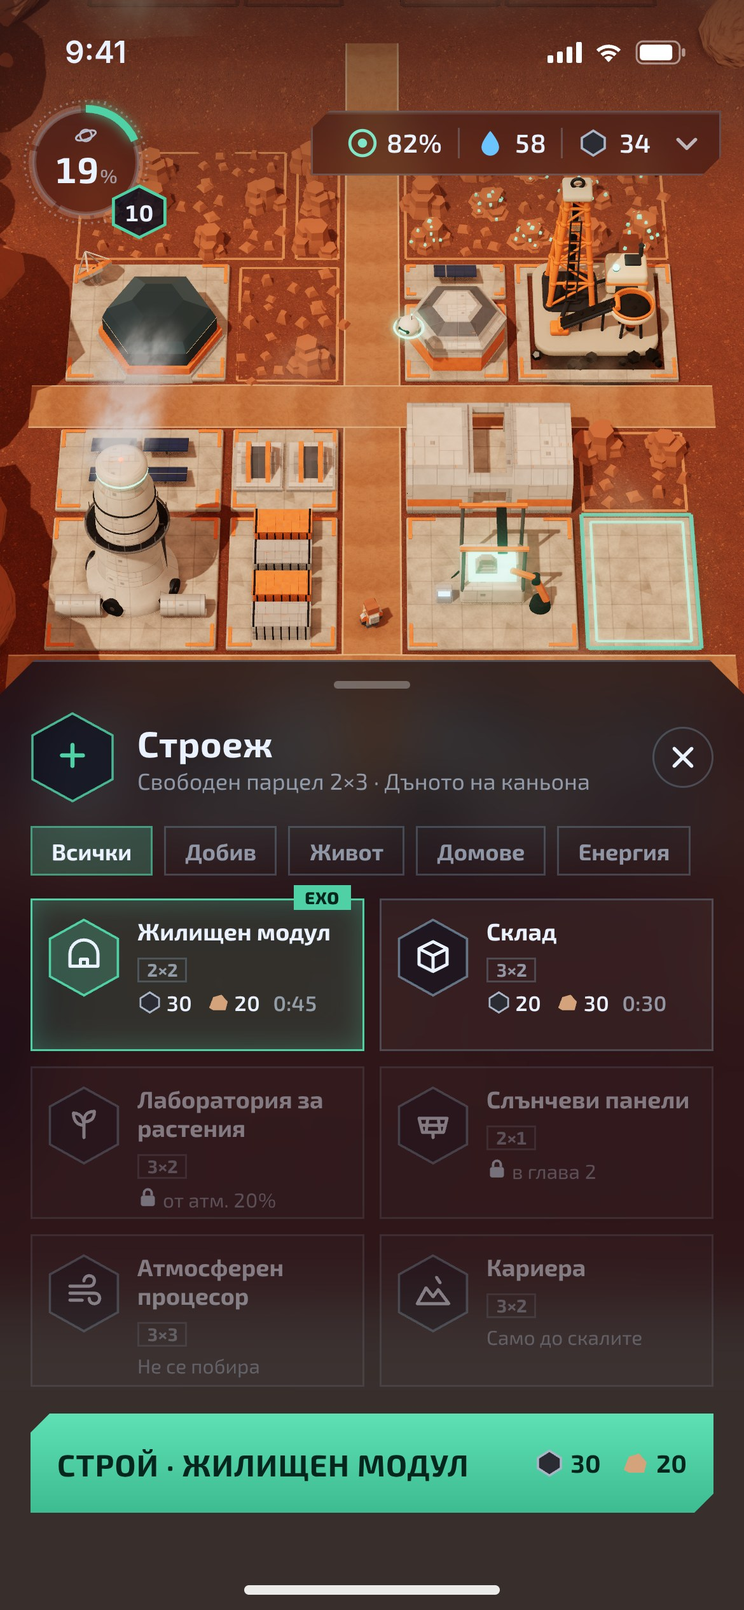
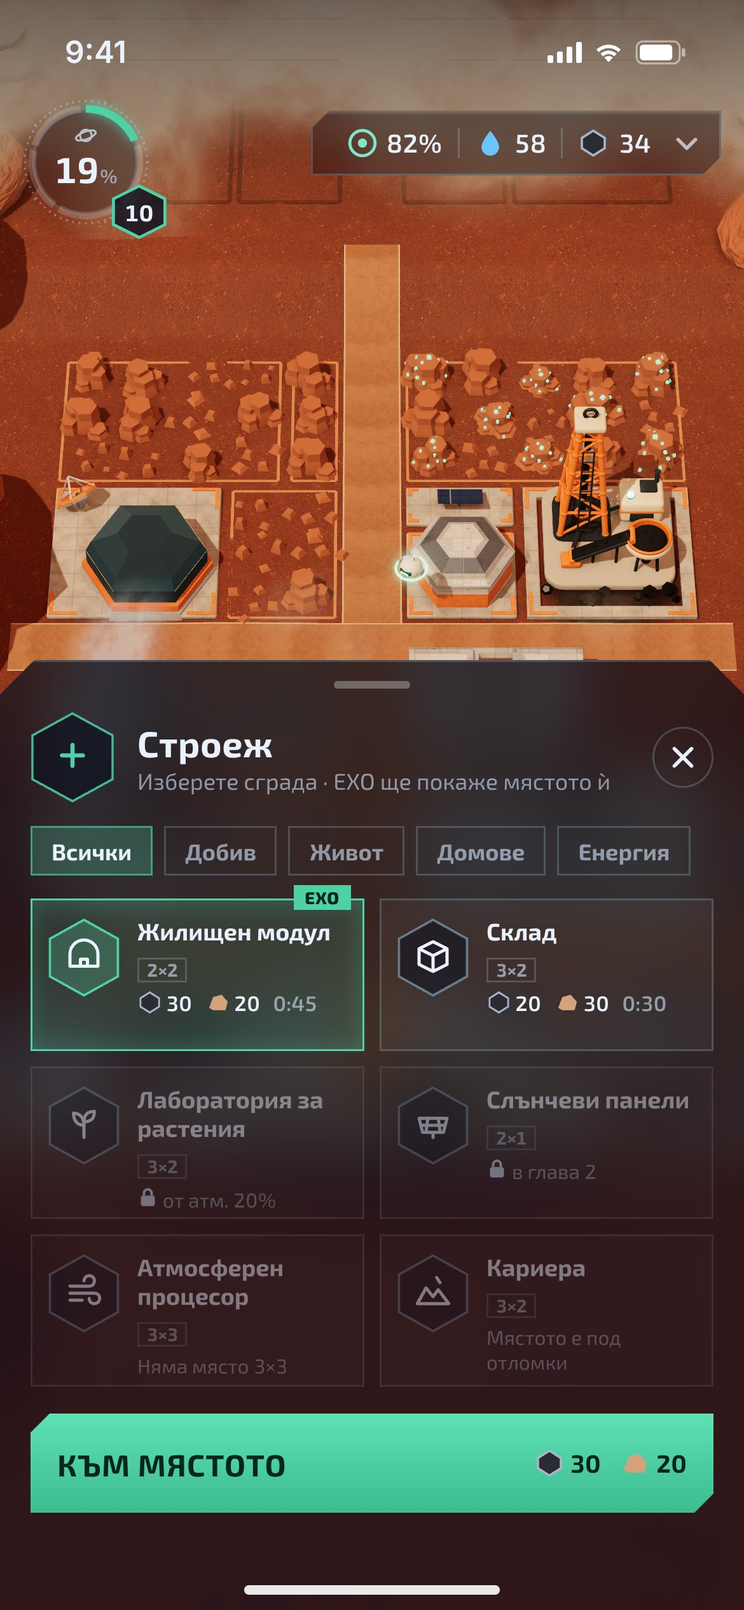
Строеж с бутона „Строй“: определено място и ЕХО води дотам
Жоро уточни: фабрикатор няма; бутонът „Строй“ отваря менюто, всяка
сграда има определено място на картата и ЕХО води до него.

- mockup: състояния #early-build (менюто) и #early-place (светещото
  място с прозрачната сграда и ЕХО), кадри 06 и 07; фабрикаторът е
  заменен с рисърч станция и кадри 01–03 са направени наново.
- docs/game-flow-concept.md следва обновения документ в Claude.
- notes.md: решението и дневникът са уточнени.

Claude-Session: https://claude.ai/code/session_01HQgMkiyb5bvwSnLxV2QWWo

diff --git a/mockup/index.html b/mockup/index.html
@@ -86,6 +86,16 @@
   .card .meta { font-size: 11px; color: var(--ink); margin-top: 4px; display: flex; gap: 7px; align-items: center; font-weight: 600; }
   .card .meta span { display: flex; align-items: center; gap: 2px; }
   .card .note { font-size: 10.5px; color: var(--muted); margin-top: 4px; line-height: 1.25; }
+  .hint { position: absolute; top: 134px; left: 50%; transform: translateX(-50%); padding: 8px 14px; font-size: 13px; font-weight: 600; display: flex; gap: 8px; align-items: center; white-space: nowrap; }
+  .hint b { color: var(--accent); }
+  .bubble { position: absolute; transform: translate(-50%, calc(-100% - 12px)); padding: 8px 11px; font-size: 12.5px; font-weight: 600; line-height: 1.3; width: 176px; background: var(--glass-strong); border: 1px solid rgba(79, 209, 165, .7); box-shadow: 0 0 16px rgba(79, 209, 165, .35); }
+  .bubble:after { content: ''; position: absolute; left: var(--tx, 50%); bottom: -7px; width: 12px; height: 12px; background: inherit; border-right: 1px solid rgba(79, 209, 165, .7); border-bottom: 1px solid rgba(79, 209, 165, .7); transform: translateX(-50%) rotate(45deg); }
+  .bubble .who { font-size: 10px; letter-spacing: .6px; color: var(--accent); font-weight: 800; margin-bottom: 2px; }
+  .placebar { position: absolute; left: 0; right: 0; bottom: 0; padding: 14px 16px 30px; background: var(--glass-strong); backdrop-filter: blur(16px) saturate(150%); border-top: 1px solid var(--line); clip-path: polygon(0 18px, 18px 0, calc(100% - 18px) 0, 100% 18px, 100% 100%, 0 100%); }
+  .placebar .row { display: flex; align-items: center; gap: 12px; }
+  .placebar h4 { font-size: 16px; font-weight: 700; } .placebar p { font-size: 12px; color: var(--muted); margin-top: 2px; }
+  .placebar .btns { display: flex; gap: 8px; margin-top: 14px; }
+  .cancel { width: 104px; height: 52px; border: 1px solid var(--line); display: grid; place-items: center; font-weight: 700; font-size: 14px; color: var(--muted); clip-path: polygon(10px 0, 100% 0, 100% calc(100% - 10px), calc(100% - 10px) 100%, 0 100%, 0 10px); }
   .card .tag { position: absolute; top: -8px; right: 6px; font-size: 9px; font-weight: 800; letter-spacing: .3px; background: #4fd1a5; color: #04261c; padding: 1px 6px; }
 </style>
 </head>
@@ -162,6 +172,13 @@ function hud() {
     }
     const dockB = (ico, cls = '', extra = '') => `<div class="b ${cls}">${ico}${extra}</div>`;
     h += `<div class="dock glass">${dockB(I.people, L ? '' : 'off', L ? '' : `<span class="lock">${I.lock}</span>`)}${dockB(`<svg width="44" height="44" viewBox="0 0 44 44" style="position:absolute"><circle cx="22" cy="22" r="17" fill="none" stroke="rgba(255,255,255,.12)" stroke-width="2"/><circle cx="22" cy="22" r="17" fill="none" stroke="#4fd1a5" stroke-width="2" stroke-dasharray="${0.6 * 106.8} 106.8" transform="rotate(-90 22 22)"/></svg>` + I.research)}<div class="build"><svg class="bg" width="64" height="70" viewBox="0 0 64 70"><defs><linearGradient id="bg1" x1="0" y1="0" x2="0" y2="1"><stop offset="0" stop-color="#6be6bd"/><stop offset="1" stop-color="#36b58b"/></linearGradient></defs><path d="${hexPath(64, 70, 1.5)}" fill="url(#bg1)" stroke="#c6f7e6" stroke-width="1.5"/></svg><div style="position:relative">${I.build.replace('width="22" height="22"', 'width="28" height="28"')}</div></div>${dockB(I.map, L ? '' : 'off', L ? '' : `<span class="lock">${I.lock}</span>`)}${dockB(I.echo, '', '<span class="dot">3</span>')}</div>`;
+  } else if (st.place) {
+    // a building chosen: its spot glows, ЕХО points at it, one tap confirms
+    h += `<div class="hint glass cham">${S('<path d="M12 21s-6-5.6-6-10a6 6 0 0 1 12 0c0 4.4-6 10-6 10z"/><circle cx="12" cy="11" r="2.2"/>', '#4fd1a5', 2)}Натиснете <b>светещото място</b></div>`;
+    const bx = Math.min(Math.max(a.place.x, 104), 390 - 104);
+    h += `<div class="bubble" style="left:${bx.toFixed(1)}px;top:${a.place.y.toFixed(1)}px;--tx:${(a.place.x - bx + 88).toFixed(1)}px"><div class="who">ЕХО</div>Тук е мястото за модула. Натиснете го.</div>`;
+    h += `<div class="placebar"><div class="row">${hexPin(S('<path d="M4 18V11a8 8 0 0 1 16 0v7z"/><path d="M10 18v-4h4v4"/><path d="M4 18h16"/>'), { w: 44, h: 48, fill: 'rgba(79,209,165,.25)', stroke: '#4fd1a5' })}<div><h4>Жилищен модул</h4><p>2×2 · 5 места · строи се за 0:45</p></div></div>
+      <div class="btns"><div class="cancel">Отказ</div><div class="go"><b>СТРОЙ ТУК</b><div class="cost"><span>${R.carbon}30</span><span>${R.stone}20</span></div></div></div></div>`;
   } else if (st.build) {
     // tapped: an empty 2x3 plot, the build menu lists what fits and what comes later
     const small = s => s.replace('width="16" height="16"', 'width="13" height="13"');
@@ -177,17 +194,17 @@ function hud() {
     const cost = (c, s, t) => `<div class="meta"><span>${small(R.carbon)}${c}</span><span>${small(R.stone)}${s}</span><span style="color:var(--muted)">${t}</span></div>`;
     const note = t => `<div class="note">${t}</div>`;
     h += `<div class="sheet tall"><div class="grab"></div>
-      <div class="sh-head">${hexPin(S('<path d="M12 6v12M6 12h12"/>', '#4fd1a5', 2.4), { w: 44, h: 48, stroke: 'rgba(79,209,165,.85)' })}<div><h3>Строеж</h3><p>Свободен парцел 2×3 · Дъното на каньона</p></div><div class="x">${I.close}</div></div>
+      <div class="sh-head">${hexPin(S('<path d="M12 6v12M6 12h12"/>', '#4fd1a5', 2.4), { w: 44, h: 48, stroke: 'rgba(79,209,165,.85)' })}<div><h3>Строеж</h3><p>Изберете сграда · ЕХО ще покаже мястото ѝ</p></div><div class="x">${I.close}</div></div>
       <div class="tabs"><span class="on">Всички</span><span>Добив</span><span>Живот</span><span>Домове</span><span>Енергия</span></div>
       <div class="cards">
         ${card(B.hab, 'Жилищен модул', '2×2', cost(30, 20, '0:45'), { sel: true, tag: 'ЕХО' })}
         ${card(B.store, 'Склад', '3×2', cost(20, 30, '0:30'))}
         ${card(B.plant, 'Лаборатория за растения', '3×2', note(`${I.lock} от атм. 20%`), { dim: true })}
         ${card(B.solar, 'Слънчеви панели', '2×1', note(`${I.lock} в глава 2`), { dim: true })}
-        ${card(B.air, 'Атмосферен процесор', '3×3', note('Не се побира'), { dim: true })}
-        ${card(B.quarry, 'Кариера', '3×2', note('Само до скалите'), { dim: true })}
+        ${card(B.air, 'Атмосферен процесор', '3×3', note('Няма място 3×3'), { dim: true })}
+        ${card(B.quarry, 'Кариера', '3×2', note('Мястото е под отломки'), { dim: true })}
       </div>
-      <div class="up"><div class="go"><b>СТРОЙ · ЖИЛИЩЕН МОДУЛ</b><div class="cost"><span>${R.carbon}30</span><span>${R.stone}20</span></div></div></div>
+      <div class="up"><div class="go"><b>КЪМ МЯСТОТО</b><div class="cost"><span>${R.carbon}30</span><span>${R.stone}20</span></div></div></div>
     </div>`;
   } else {
     // tapped: the carbon drill

diff --git a/mockup/src/main.js b/mockup/src/main.js
@@ -13,7 +13,8 @@ import { RGBELoader } from 'three/addons/loaders/RGBELoader.js';
 const STATE = (location.hash || '#early').slice(1);
 const LATE = STATE.startsWith('late');
 const PANEL = STATE.endsWith('panel');
-const BUILD = STATE.endsWith('build'); // an empty plot tapped: the build menu is open
+const BUILD = STATE.endsWith('build'); // the Build button pressed: the build menu is open
+const PLACE = STATE.endsWith('place'); // a building chosen: its spot glows on the map and ЕХО points at it
 const ZOOM = STATE.endsWith('zoom');
 const DPR = Number(new URLSearchParams(location.search).get('dpr') || 1);
 const W = 390, H = 844;
@@ -211,7 +212,7 @@ function zone1(late) {
   solarArray(L.solarA);
   pad(L.proc); at(K.processor(), L.proc, 1.0);
   cargo(L.cargo);
-  pad(L.fab); at(K.fabricator(), L.fab, 1.0);
+  pad(L.fab); at(K.research(true), L.fab, 0.95, 0, 0.4, 0.3); // no fabricator (decided 02.11.2026): this plot holds the research station
   solarArray(L.solarB); batteryBank(L.batt);
   pad(L.store); at(kit('hangar_largeA', 2.8), L.store, 1, Math.PI / 2); put(kit('barrels', 3), L.store.x1 - 1.2, L.store.zb + 1.0, 0.4);
   pad(L.lab); at(kit('hangar_roundGlass', 2.2), L.lab, 1, 0, 0.7, 1.2); at(kit('satelliteDish_detailed', 3.2), L.lab, 1, 0.7, -2.9, -2.9);
@@ -237,13 +238,24 @@ function buildEarly() {
   put(kit('astronautA', 2.3), 0, 13.2, 0.4);
   for (let i = 0; i < 8; i++) { const x = L.water.cx + 0.6 + T.rng() * 2, z = L.water.cz + 0.6 + T.rng() * 1.8; K.sph(scene, 0.22 + T.rng() * 0.35, K.M.ice, x, Wd.gy(x, z) + 0.05, z, { seg: 6, seg2: 4, s: [1, 0.5, 1] }); }
   for (let i = 0; i < 14; i++) { const x = L.drill.cx - 3.4 + T.rng() * 6.8, z = L.drill.cz + 2.4 + T.rng() * 1.4, r = 0.18 + T.rng() * 0.28; const m = new THREE.Mesh(new THREE.DodecahedronGeometry(r, 0), K.M.carbon); m.position.set(x, Wd.gy(x, z) + r * 0.5, z); m.rotation.set(T.rng() * 3, T.rng() * 3, 0); m.castShadow = true; scene.add(m); }
-  // ЕХО hovers by the new hab and lights it up
-  const ex = L.hab.cx - 2.6, ez = L.hab.cz + 3.4, ey = Wd.gy(ex, ez) + 5.0;
+  // ЕХО hovers by the new hab and lights it up; in placement it lights the free spot for the chosen building
+  const tgt = PLACE ? L.free : L.hab;
+  const ex = tgt.cx - 2.6, ez = tgt.cz + 3.4, ey = Wd.gy(ex, ez) + 5.0;
   put(K.echoBot(), ex, ez, -0.6, 1.1, ey);
   const beam = new THREE.Mesh(new THREE.ConeGeometry(1.5, 4.4, 32, 1, true), new THREE.MeshBasicMaterial({ color: 0x4fd1a5, transparent: true, opacity: 0.12, blending: THREE.AdditiveBlending, depthWrite: false, side: THREE.DoubleSide }));
-  beam.position.set(L.hab.cx - 0.6, Wd.gy(0, L.hab.cz) + 2.6, L.hab.cz + 1.2); beam.lookAt(ex, ey, ez); beam.rotateX(Math.PI / 2); scene.add(beam);
+  beam.position.set(tgt.cx - 0.6, Wd.gy(0, tgt.cz) + 2.6, tgt.cz + 1.2); beam.lookAt(ex, ey, ez); beam.rotateX(Math.PI / 2); scene.add(beam);
   halo(ex, ey, ez, 2.2, 0x6ff2c4, 0.45);
-  if (PANEL) { selectFrame(L.drill); beam.visible = false; } else if (BUILD) { selectFrame(L.free); beam.visible = false; } else selectFrame(L.hab);
+  if (PANEL) { selectFrame(L.drill); beam.visible = false; }
+  else if (BUILD) beam.visible = false;
+  else if (PLACE) {
+    selectFrame(L.free);
+    // the chosen building stands on its spot as a see-through ghost until "Строй тук"
+    const ghostMat = new THREE.MeshStandardMaterial({ color: 0x4fd1a5, emissive: 0x4fd1a5, emissiveIntensity: 0.9, transparent: true, opacity: 0.6, depthWrite: false });
+    const ghost = kit('hangar_roundB', 1.7); ghost.traverse(o => { if (o.isMesh) { o.material = ghostMat; o.castShadow = false; } });
+    at(ghost, L.free, 1, Math.PI);
+    halo(L.free.cx, Wd.gy(0, L.free.cz) + 1.2, L.free.cz, 9, 0x6ff2c4, 0.35);
+  } else selectFrame(L.hab);
+  P('place', L.free.cx, Wd.gy(0, L.free.cz) + 6.5, L.free.cz);
   // zone 2 under dust: the outlines of its plots, in their different sizes
   for (const r of LATE_Z2) pad(r, 'locked');
   for (let i = 0; i < 16; i++) dust(-24 + i * 3.2 + T.rng() * 2, Wd.gy(0, -32) + 4 + T.rng() * 4, -33 - T.rng() * 5, 14 + T.rng() * 8, 0xe6b48e, 0.7);
@@ -254,7 +266,7 @@ function buildEarly() {
   P('drill', L.drill.cx + 2.8, Wd.gy(0, L.drill.cz) + 2.4, L.drill.cz + 2.8); P('water', L.water.cx + 0.4, Wd.gy(0, L.water.cz) + 1.4, L.water.cz + 1.6);
   P('hab', L.hab.cx, Wd.gy(0, L.hab.cz) + 3.6, L.hab.cz); P('empty', L.free.cx, Wd.gy(0, L.free.cz) + 0.4, L.free.cz); P('rubble', L.rub5.cx, Wd.gy(0, L.rub5.cz) + 1.0, L.rub5.cz);
   P('zone', 0, Wd.gy(0, -24) + 0.5, -24.5); P('echo', ex, ey + 1, ez);
-  if (ZOOM) { camera.position.set(-1, 60, 62); camera.lookAt(-1, 0, 9); } else if (BUILD) { camera.position.set(0, 118, 106); camera.lookAt(0, 0, 24); } else { camera.position.set(0, 118, 90); camera.lookAt(0, 0, 8); }
+  if (ZOOM) { camera.position.set(-1, 60, 62); camera.lookAt(-1, 0, 9); } else { camera.position.set(0, 118, 90); camera.lookAt(0, 0, 8); }
   frameSun(0, 2, 70, 90);
 }
 
@@ -346,5 +358,5 @@ composer.render();
 const out = {};
 for (const [k, v] of Object.entries(anchors)) { const p = v.clone().project(camera); out[k] = { x: (p.x + 1) / 2 * W, y: (1 - p.y) / 2 * H }; }
 window.__anchors = out;
-window.__state = { late: LATE, panel: PANEL || BUILD, build: BUILD };
+window.__state = { late: LATE, panel: PANEL || BUILD || PLACE, build: BUILD, place: PLACE };
 window.dispatchEvent(new Event('scene-ready'));

diff --git a/docs/game-flow-concept.md b/docs/game-flow-concept.md
@@ -1,47 +1,47 @@
-<!-- Синхронизирано с документа „Zerks-X6: ход на играта по концепцията“ (https://claude.ai/artifact/JjShfraRTRq3CH4FX62HVv) при rev 12. Двете схеми в документа са нарисувани; тук са описани с думи. -->
+<!-- Синхронизирано с документа „Zerks-X6: ход на играта по концепцията“ (https://claude.ai/artifact/JjShfraRTRq3CH4FX62HVv) при rev 21. Двете схеми в документа са нарисувани; тук са описани с думи. -->
 
 # Zerks-X6: ход на играта по концепцията
 
 02.11.2026 · Жоро
 
-Целият ход на Zerks-X6 по концепцията, стъпка по стъпка: какво става и какво натиска играчът. Новото от 02.11.2026: фабрикатор няма; строиш, като натиснеш парцел на картата и избереш сграда от менюто за строеж.
+Целият ход на Zerks-X6 по концепцията, стъпка по стъпка: какво става и какво натиска играчът. Новото от 02.11.2026: фабрикатор няма; натискаш бутона „Строй“, избираш сграда, а ЕХО те води до определеното ѝ място на картата.
 
 ## Какво се промени
 
-Фабрикатор няма (решение на Жоро, 02.11.2026). Строиш направо на картата: натискаш парцел, отваря се менюто за строеж с наличните сгради за този парцел, избираш една и строежът тръгва. Това заменя решението от 30.10.2026 „фабрикаторът строи всичко“.
+Фабрикатор няма (решение на Жоро, 02.11.2026). Строи се с бутона „Строй“ долу: избираш сграда от менюто, картата осветява определеното ѝ място, ЕХО лети до него и го посочва, а ти го натискаш. Това заменя решението от 30.10.2026 „фабрикаторът строи всичко“.
 
 | Какво правеше фабрикаторът | Какво го заменя | Статус |
 | --- | --- | --- |
-| Строеше всяка сграда | Тап върху парцел и менюто за строеж | Решено |
+| Строеше всяка сграда | Бутонът „Строй“, менюто и определеното място на картата; ЕХО води до него | Решено |
 | Излизаше от един от контейнерите при кацането | Контейнерите носят само запаси: храна, вода, материали и стартовата база с кислород | Решено |
-| Пускаше строителния дрон | Строителният дрон излита от Ковчега и лети до парцела | Предложение |
+| Пускаше строителния дрон | Строителният дрон излита от Ковчега и лети до мястото | Предложение |
 | Подобренията му съкращаваха строежа | Подобрение на Ковчега и проучване в клон Колония | Предложение |
 | На високо ниво пускаше 2-ри и 3-ти дрон | Проучване „Втори строителен дрон“, което вече е в концепцията | Предложение |
 | Строителят даваше бонус в него | Строителят дава бонус в Ковчега: по-бърз строеж навсякъде | Предложение |
 
 Всичко друго от концепцията остава: камера отгоре, всичко с тап, ЕХО води, Командирът не се управлява, сградите са в парцели по мрежа с различни размери.
 
-## Строеж с тап върху парцел
+## Строеж с бутона „Строй“
 
-Играчът натиска парцела на картата, а менюто за строеж показва само сградите, които могат да станат там. Така не трябва да мисли къде да сложи сградата: мястото идва първо.
+Играчът натиска „Строй“ долу в средата и избира сграда; за нея има определено място на картата. Камерата лети до него, мястото свети с прозрачна сграда върху му, а ЕХО долита и го посочва. Играчът не търси къде да строи.
 
-Схема в документа: Тап върху парцел (свободен, залеж или отломки) → Менюто за строеж (само каквото се побира тук) → Избираш сграда (цена, размер и време) → Стигат ли ресурсите? Не: ЕХО казва какво да подобриш и се връщаш към избора. Да: „Строй“, дронът излита от Ковчега → Сградата се вдига (от секунди до минути) → Готова: тап отваря панела ѝ и „Подобри“.
+Схема в документа: Бутон „Строй“ (долу в средата на екрана) → Менюто за строеж (сгради с цена, размер и време) → Избираш сграда (ЕХО препоръчва една от тях) → Стигат ли ресурсите? Не: ЕХО казва какво да подобриш и се връщаш към избора. Да: ЕХО води дотам (мястото свети, камерата лети там) → Тап на мястото („Строй тук“, дронът излита от Ковчега) → Сградата се вдига (от секунди до минути, после „Подобри“).
 
-| Натиснат парцел | Какво показва менюто |
+| Какво избра | Какво показва картата |
 | --- | --- |
-| Свободен | Сградите, които се побират в него, по раздели. Препоръката на ЕХО е първа; заключените и тези, които не се побират, са сиви с причината |
-| Залеж (карбон, лед, руда, кристали) | Само сградата за този залеж, например Карбонова сонда |
-| С отломки и скали | „Разчисти“; след това парцелът е свободен |
-| В заключена зона | Условията за зоната и „Отключи“ |
-| С готова сграда | Не менюто за строеж, а панела на сградата с „Подобри“ |
+| Сграда за свободно място (дом, склад, рисърч) | Определеното място свети с прозрачната сграда; ЕХО казва „Тук е мястото“ |
+| Сграда за залеж (сонда, помпа, мина) | Камерата лети до залежа и той свети |
+| Сграда, чието място е под отломки | ЕХО показва отломките: „Първо разчистете“ |
+| Сграда, за която няма свободно място | В менюто тя е сива с причината, например „Няма място 3×3“; ЕХО казва коя зона да се отключи |
+| Заключена сграда | Не се избира; катинарчето казва кога се отключва |
 
-Така изглежда менюто на телефона, след тап върху свободния парцел 2×3 на ниво 10 (кадър от макета; цените и времената са примерни): `mockup/screens/06-stroezh-menu.jpg`.
+Така изглежда на телефона, на ниво 10 (кадри от макета; цените и времената са примерни). Първо менюто след „Строй“, после мястото за избрания Жилищен модул: `mockup/screens/06-stroezh-menu.jpg` и `mockup/screens/07-izbor-na-miasto.jpg`.
 
 ## Стартовите сгради в менюто
 
 В глава 1 менюто за строеж предлага осем сгради; всяка се появява чак, когато ЕХО я доведе. Размерите са от макета, в клетки по 3 м, а минутите са от първите 10 минути; и двете са предложение.
 
-| Сграда | Какво прави | На какъв парцел | Размер | Появява се |
+| Сграда | Какво прави | Къде е мястото | Размер | Появява се |
 | --- | --- | --- | --- | --- |
 | Карбонова сонда | Карбон от залежа | Залеж карбон | 3×3 | 1:30, първата сграда |
 | Геолокатор | Показва атмосферата и залежите; с подобрения сканира следващата зона | Свободен | 2×2 | 3:00, струва 20 карбон |
@@ -56,20 +56,20 @@
 
 ## Първите 10 минути с ЕХО
 
-Играчът построява шест неща и вижда целия кръг веднъж, без да чете дълъг текст. Всеки строеж започва с тап върху парцел, който ЕХО е осветил. Стъпките са от концепцията, пренаписани без фабрикатор.
+Играчът построява шест неща и вижда целия кръг веднъж, без да чете дълъг текст. Всеки строеж започва с бутона „Строй“, а ЕХО води до мястото. Стъпките са от концепцията, пренаписани без фабрикатор.
 
 | Време | Какво става | Какво натискаш | Какво научаваш |
 | --- | --- | --- | --- |
 | 0:00 | Пролог в няколко кадъра: Земята се разпада, корабите излитат, скокът | Нищо или „Прескочи“ | Защо сме тук |
 | 0:30 | Камерата е отгоре. Ковчегът каца в облак прах, Командирът слиза по рампата, контейнерите се спускат от другата страна, а от един излита ЕХО: „Добро утро, Командире. Поспахте си добре.“ | Нищо; сцената е кратка | Кой е Командирът и кой е ЕХО |
-| 1:00 | Залежът карбон до Ковчега свети. ЕХО: „За геолокатора трябват 20 карбон. Натиснете залежа.“ | Тап върху парцела. Отваря се менюто с една сграда: Карбонова сонда | Тап върху парцел е строеж |
-| 1:30 | Строителният дрон излита от Ковчега и вдига сондата за 5 секунди | „Строй“ в менюто | Сградата стои върху своя залеж |
+| 1:00 | Бутонът „Строй“ свети. ЕХО: „За геолокатора трябват 20 карбон. Да сложим сонда.“ | „Строй“ → Карбонова сонда. Камерата лети до залежа, той свети и ЕХО го посочва | Строиш с бутона; ЕХО показва мястото |
+| 1:30 | Строителният дрон излита от Ковчега и вдига сондата за 5 секунди | Тап върху светещия залеж → „Строй тук“ | Сградата стои върху своя залеж |
 | 2:00 | Сондата се върти и над нея се пълни балонче с карбон | Тап върху балончето няколко пъти, след това първото подобрение | Прибиране и подобрение |
-| 3:00 | Карбонът стига 20; ЕХО осветява свободния парцел до Ковчега | Тап върху парцела → Геолокатор → Строй. Сканирането минава като вълна и горе се появява Атм. 12% | Главната цел; колонията става ниво 2 |
-| 4:00 | Геолокаторът показва лед в сянката на скалите. ЕХО: „Водата е живот.“ | Тап върху леда → Помпа за вода | Всеки залеж предлага само своята сграда |
-| 5:00 | ЕХО: „Запасът кислород на Ковчега е за първите събудени. За всички трябва планетата да диша.“ | Тап върху свободен парцел → Атмосферен процесор | Верига: една сграда харчи това, което друга произвежда |
+| 3:00 | Карбонът стига 20; „Строй“ свети отново | „Строй“ → Геолокатор → тап върху мястото до Ковчега. Сканирането минава като вълна и горе се появява Атм. 12% | Главната цел; колонията става ниво 2 |
+| 4:00 | Геолокаторът показва лед в сянката на скалите. ЕХО: „Водата е живот.“ | „Строй“ → Помпа за вода; ЕХО води до леда | Всяка сграда има свое място |
+| 5:00 | ЕХО: „Запасът кислород на Ковчега е за първите събудени. За всички трябва планетата да диша.“ | „Строй“ → Атмосферен процесор → тап върху мястото | Верига: една сграда харчи това, което друга произвежда |
 | 6:00 | От небето пада капсула с парашут от запасите на Ковчега | Тап върху капсулата: камък и карбон | Капсулите са чести малки подаръци |
-| 7:00 | Отломки от кацането затрупват два парцела | Тап върху отломките → Разчисти; след това тап върху парцела → Рисърч станция | Мястото се освобождава с тап |
+| 7:00 | Отломки от кацането затрупват мястото за рисърч станцията | Тап върху отломките → Разчисти; след това „Строй“ → Рисърч станция на освободеното място | Мястото се освобождава с тап |
 | 8:00 | Рисърч станцията предлага „Закалени сврдла“ за 5 минути | Тап „Започни“; показва се таймер | Някои неща стават с време |
 | 9:00 | Сондата стига ниво 10: добивът се удвоява и тя сменя вида си | Задържане на „Подобри“ | Скоковете на всеки 10 нива са цел |
 | 10:00 | ЕХО дава първите три цели: „Атмосфера 20%“, „Помпа ниво 10“, „Завърши първия рисърч“ | Цели → списъкът | Колонията работи без теб |
@@ -78,13 +78,14 @@
 
 ## Какво натискаш и основният кръг
 
-Всичко става с тап; няма джойстик и няма герой за водене. Новото е, че строежът започва от парцела, а не от фабрикатора.
+Всичко става с тап; няма джойстик и няма герой за водене. Новото е, че строежът започва от бутона „Строй“, а не от фабрикатора.
 
 | Натискаш | Какво става |
 | --- | --- |
-| Свободен парцел | Отваря се менюто за строеж: сградите, които се побират, с цена и време. Избираш и дронът потегля |
-| Залеж (карбон, лед, руда) | Менюто показва само сградата за този залеж |
-| Скали и отломки | „Разчисти“: парцелът се освобождава и дава малко камък или карбон |
+| Бутона „Строй“ | Отваря се менюто за строеж: наличните сгради с цена, размер и време; заключените са сиви |
+| Сграда в менюто | Камерата лети до определеното ѝ място; то свети с прозрачната сграда, ЕХО го посочва |
+| Светещото място, после „Строй тук“ | Дронът излита от Ковчега и сградата се вдига |
+| Скали и отломки | „Разчисти“: мястото се освобождава и дава малко камък или карбон |
 | Заключена зона под прах | Условията за нея: атмосфера, ниво и цена за пътя; „Отключи“ |
 | Сграда | Панел: ниво, производство в минута, кой работи, „Подобри“ с цената |
 | Задържаш „Подобри“ | Ниво след ниво, докато стигат ресурсите; ×1 / ×10 / Макс |
@@ -94,7 +95,7 @@
 | Командира | Кратка реплика и нивото на колонията |
 | ЕХО, после сграда | Импулс: сградата работи двойно по-бързо 5 минути (предложение) |
 
-Схема в документа, кръг от шест стъпки: Сградите произвеждат (сонди, помпи, оранжерии, ферми) → Продукцията се прибира (с тап, после от колонистите) → Подобряваш и строиш (тап на парцел → меню за строеж) → Атмосферата расте (растенията и водата я вдигат) → Отключват се зони (нови парцели нагоре по каньона) → Събуждаш колонисти (дом с 5 места събужда 5) → отново Сградите произвеждат.
+Схема в документа, кръг от шест стъпки: Сградите произвеждат (сонди, помпи, оранжерии, ферми) → Продукцията се прибира (с тап, после от колонистите) → Подобряваш и строиш („Строй“ → ЕХО показва мястото) → Атмосферата расте (растенията и водата я вдигат) → Отключват се зони (нови парцели нагоре по каньона) → Събуждаш колонисти (дом с 5 места събужда 5) → отново Сградите произвеждат.
 
 Колкото повече колонисти, толкова повече сгради работят сами, и кръгът се върти по-бързо, дори докато играча го няма.
 
@@ -150,12 +151,12 @@
 
 **За строежа без фабрикатор**
 
+- [ ] Всяка сграда има ли едно определено място, или картата осветява няколко подходящи места и избираш едно?
 - [ ] Строителният дрон излита от Ковчега: така ли да е?
 - [ ] Колко строежа наведнъж в началото: един, или се редят в опашка?
-- [ ] Менюто показва ли сградите, които не са отключени или не се побират в парцела (сиви с катинарче), или ги скрива?
-- [ ] Могат ли два съседни свободни парцела да се слеят за по-голяма сграда?
+- [ ] Менюто показва ли заключените сгради (сиви с катинарче), или ги скрива?
+- [ ] Тап върху празно място на картата прави ли нещо, или строежът е само през бутона?
 - [ ] Как се мести сграда: със задържане и плъзгане, или от панела ѝ?
-- [ ] Бутонът „Строй“ долу остава ли? Предложение: да, но той само осветява свободните парцели, а строежът пак започва от парцела.
 
 **От концепцията**
 

diff --git a/docs/notes.md b/docs/notes.md
@@ -77,7 +77,7 @@
 | ЕХО | Малкото роботче водач: показва къде да натиснеш, дава целите и докладва какво е станало, докато те е нямало | Решен |
 | Интерфейс | Минимален и футуристичен: на екрана само иконки, които подсказват; менютата се отварят при натискане (решено на 02.11.2026) | Решен |
 | Строеж | Сградите се строят в парцели по мрежа, подредени по улици; всяка сграда заема колкото място ѝ трябва, не всички еднакво (решено на 02.11.2026). Пример в макета: клетки по 3 м, малки 2×2, средни 3×2, големи 3×3, Ковчегът 7×3 | Решен |
-| Фабрикаторът | Отпада. Строиш с тап върху парцел на картата: отваря се менюто за строеж със сградите, които се побират там. Заменя решението от 30.10.2026 „фабрикаторът строи всичко“ (Жоро, 02.11.2026). Предложение: строителният дрон излита от Ковчега | Решен |
+| Фабрикаторът | Отпада. Строи се с бутона „Строй“: избираш сграда от менюто, картата осветява определеното ѝ място, ЕХО води дотам и го посочва, а ти го натискаш. Заменя решението от 30.10.2026 „фабрикаторът строи всичко“ (Жоро, 02.11.2026). Предложение: строителният дрон излита от Ковчега | Решен |
 | Визуален стил | 3D моделите са гладки и заоблени, с чисти повърхности и меки цветове, не ръбести (Жоро, 02.11.2026, с две примерни снимки само за стила). Точният вид се решава след теста с CellCog | Решен |
 | Пътуването | Скоков двигател; хората спят в криосън в лайф подовете | Решен |
 | Колонистите | Спят в лайф подовете и се събуждат с напредъка: къща с 5 места събужда 5. Работят във фермите, с животните и като лаборанти за растенията | Решен |
@@ -112,7 +112,8 @@
 
 | Дата | Промяна | Статус |
 | --- | --- | --- |
-| 02.11.2026 | Жоро: фабрикаторът отпада; строи се с тап върху парцел и меню за строеж. Нов документ „Zerks-X6: ход на играта по концепцията“ (https://claude.ai/artifact/JjShfraRTRq3CH4FX62HVv) с нещата и действията от концепцията, две схеми и кадър на менюто за строеж; копие в docs/game-flow-concept.md. В макета ново състояние #early-build, кадър mockup/screens/06-stroezh-menu.jpg. Стъпка 1.3 „Фабрикаторът“ в „Zerks-X6: ход на играта“ и концепцията още не са обновени | Готово |
+| 02.11.2026 | Жоро уточни строежа: бутонът „Строй“ отваря менюто, всяка сграда има определено място на картата, ЕХО води дотам. Обновени документът „Zerks-X6: ход на играта по концепцията“ (схемата, таблиците, отворените въпроси) и docs/game-flow-concept.md. В макета: състояния #early-build (менюто) и #early-place (светещото място с ЕХО), кадри 06 и 07; фабрикаторът в парцела му е заменен с рисърч станция и кадри 01–03 са направени наново | Готово |
+| 02.11.2026 | Жоро: фабрикаторът отпада; строи се с тап върху парцел и меню за строеж (уточнено в реда по-горе). Нов документ „Zerks-X6: ход на играта по концепцията“ (https://claude.ai/artifact/JjShfraRTRq3CH4FX62HVv) с нещата и действията от концепцията, две схеми и кадър на менюто за строеж; копие в docs/game-flow-concept.md. В макета ново състояние #early-build, кадър mockup/screens/06-stroezh-menu.jpg. Стъпка 1.3 „Фабрикаторът“ в „Zerks-X6: ход на играта“ и концепцията още не са обновени | Готово |
 | 02.11.2026 | Макетът на екрана ползва гладките модели на Ковчега и карбоновата сонда. Кадрите при ниво 10 (01–03 в mockup/screens) са направени наново; кадрите при атмосфера 90% са същите, защото там двата модела са извън кадъра | Готово |
 | 02.11.2026 | Жоро: ходът на играта е пренареден по idle концепцията, версия 0.3. Нов раздел „Сега“ (действия, идеи, отворени въпроси), нови стъпки в главите 1–10, нова схема на пътя до ниво 100, нови системи (бури, капсули, експедиции, цели, визуален стил, луната). Документът в Claude, docs/game-flow.md и Word файлът са обновени | Готово |
 | 02.11.2026 | Жоро: 3D моделите трябва да са гладки и заоблени (две примерни снимки само за стила). Тест с CellCog: Ковчегът и карбоновата сонда като GLB модели (около 20 хил. триъгълника всеки) и кадър за сравнение в размер на iPhone, в art/3d. Струваше 132 кредита; останаха 42 | В работа |

diff --git a/mockup/README.md b/mockup/README.md
@@ -11,7 +11,8 @@
 | `03-natisnata-sonda.jpg` | Натисната карбонова сонда: панелът, който се отваря отдолу |
 | `04-atmosfera-90.jpg` | Атмосфера 90%, глава 8: град, ферми, совалка, корабостроителница |
 | `05-atmosfera-90-otblizo.jpg` | Същото, приближено |
-| `06-stroezh-menu.jpg` | Ниво 10: натиснат свободен парцел 2×3 и менюто за строеж; фабрикатор няма (решено на 02.11.2026) |
+| `06-stroezh-menu.jpg` | Ниво 10: натиснат бутонът „Строй“, отворено е менюто за строеж; фабрикатор няма (решено на 02.11.2026) |
+| `07-izbor-na-miasto.jpg` | Избран е Жилищен модул: мястото му свети с прозрачната сграда, ЕХО го посочва, долу „Строй тук“ |
 
 ## Какво е решено в макета
 
@@ -38,7 +39,7 @@ cd mockup
 npm run shots
 ```
 
-Кадрите излизат в `out/`. Едно състояние се отваря и в браузъра: `http://127.0.0.1:8777/index.html#early` (още `#early-zoom`, `#early-panel`, `#early-build`, `#late`, `#late-zoom`).
+Кадрите излизат в `out/`. Едно състояние се отваря и в браузъра: `http://127.0.0.1:8777/index.html#early` (още `#early-zoom`, `#early-panel`, `#early-build`, `#early-place`, `#late`, `#late-zoom`).
 
 ## Файлове
 
